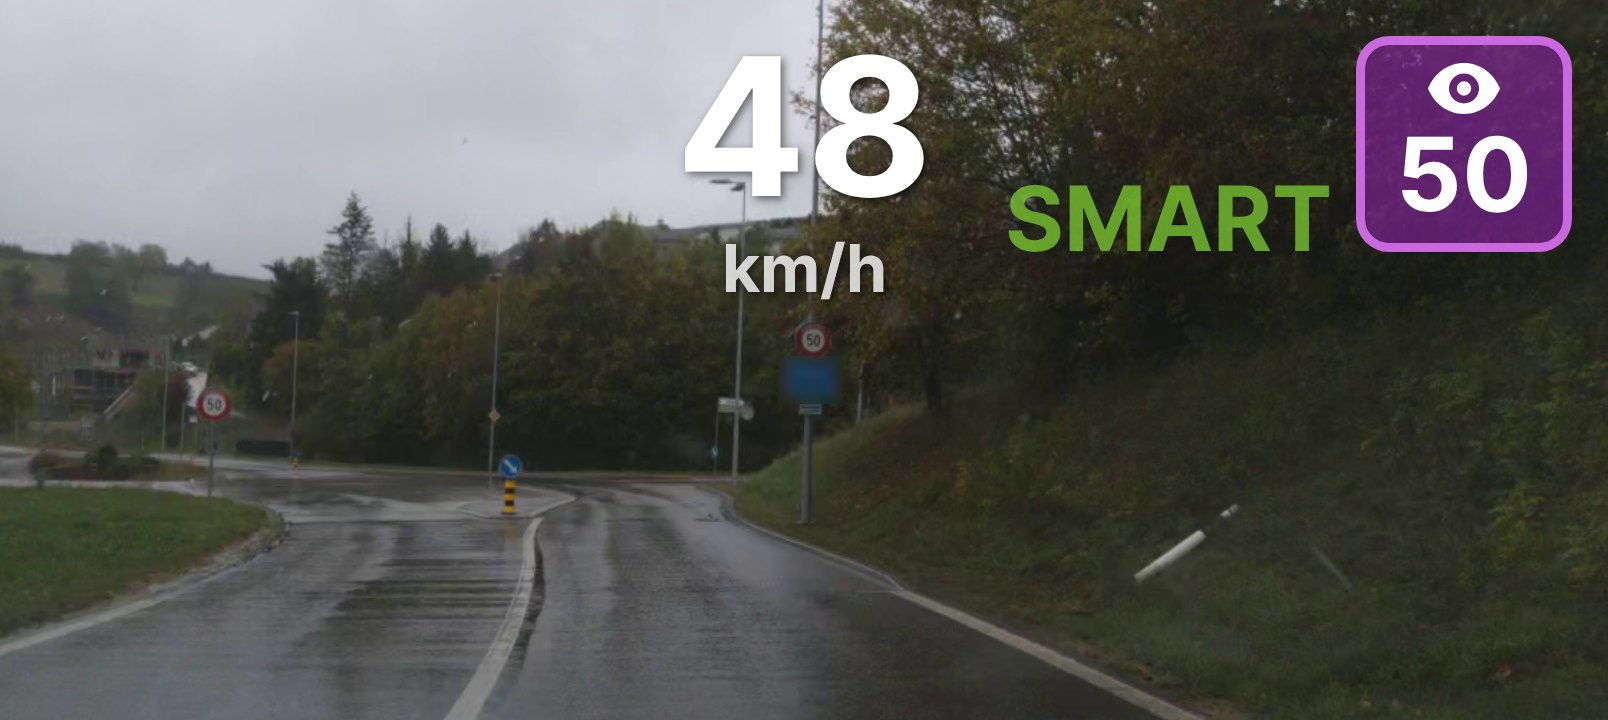
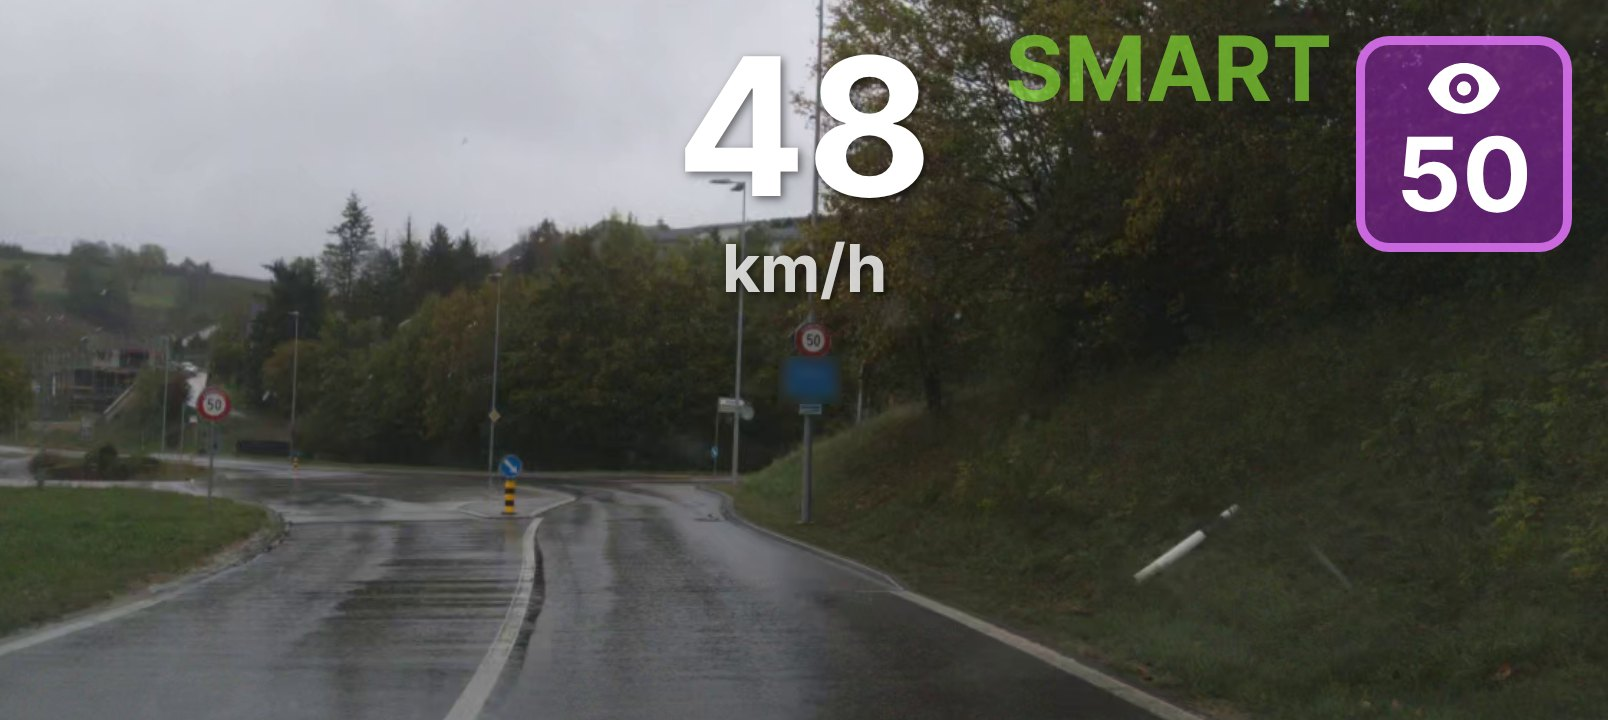
Screen pictures and README: SMART level with the top of the vision square

Changed region(s): [[0.6219, 0.0306, 0.8396, 0.1528], [0.6219, 0.2444, 0.8396, 0.3667]]

diff --git a/README.md b/README.md
@@ -121,7 +121,7 @@ How the readings become the limit (`SpeedLimitMemory` in `sunnypilot/speed_limit
 - **Smartspeed** (sunnylink, 6 Nov 2026) is the fifth mode, after the factory Off, Information, Warning and Assist (`SpeedLimitMode` 4), which work as they did and keep their Speed Limit Source: map, car, or vision. It starts speedvisiond, shows the fuchsia square and uses **Map Data + Vision** (`SpeedLimitPolicy` 5): the brain's limit, or the map's when it has none. A source without the network moves to that one by itself, and stays there after leaving Smartspeed until another source is picked. In the factory modes **Show Vision Reading** shows the square for information only, above the factory limit.
 - Automatic on every car: the limit applies as soon as it is known. No confirmation and no set speed of 120/130 to confirm with (the Peugeot has no button for it).
 - The set speed is only on and off, never the target: the car drives to the limit, also above the set speed, keeps the last limit when it goes, and before any limit keeps the speed at engagement (40 km/h from a stop). Curves and a forced deceleration still win.
-- The driving screen shows the word **SMART**, pea green and see-through while it drives to a limit and grey without one, level with the bottom of the vision square and left of it, in the top right corner, and never the set speed. **+** or **-** on the car does nothing: the word blinks for a second to say so. The press that engages does not count.
+- The driving screen shows the word **SMART**, pea green and see-through while it drives to a limit and grey without one, level with the top of the vision square and left of it, in the top right corner, and never the set speed. **+** or **-** on the car does nothing: the word blinks for a second to say so. The press that engages does not count.
 - The map (when vision has no limit): a lower limit ahead is taken once the car is within its braking distance at 1 m/s², counted from the higher of the car's speed and the limit in force, and held to the sign. On sunnypilot master this never happens (the GPS age is Unix time taken from the time since boot), so the map slows the car only at the sign; fixed on `speed-limits` and proposed upstream from branch `speed-limit-resolver-gps-clock` (31 Oct 2026). The planner slows down at most 0.5 m/s², so the car still reaches the lower limit a little after the sign.
 - Vision's limit ahead goes through the same rule of the resolver (4 Nov 2026): a lower limit is taken within its braking distance, which for a sign read at 30 to 70 m is almost always at once; a higher limit waits for the sign. The distance only decides when the limit switches: Speed Limit Assist sends a target speed, its acceleration from the distance (`get_adapting_state_target_acceleration`) is not used, so the car slows down no harder than with the map.
 
